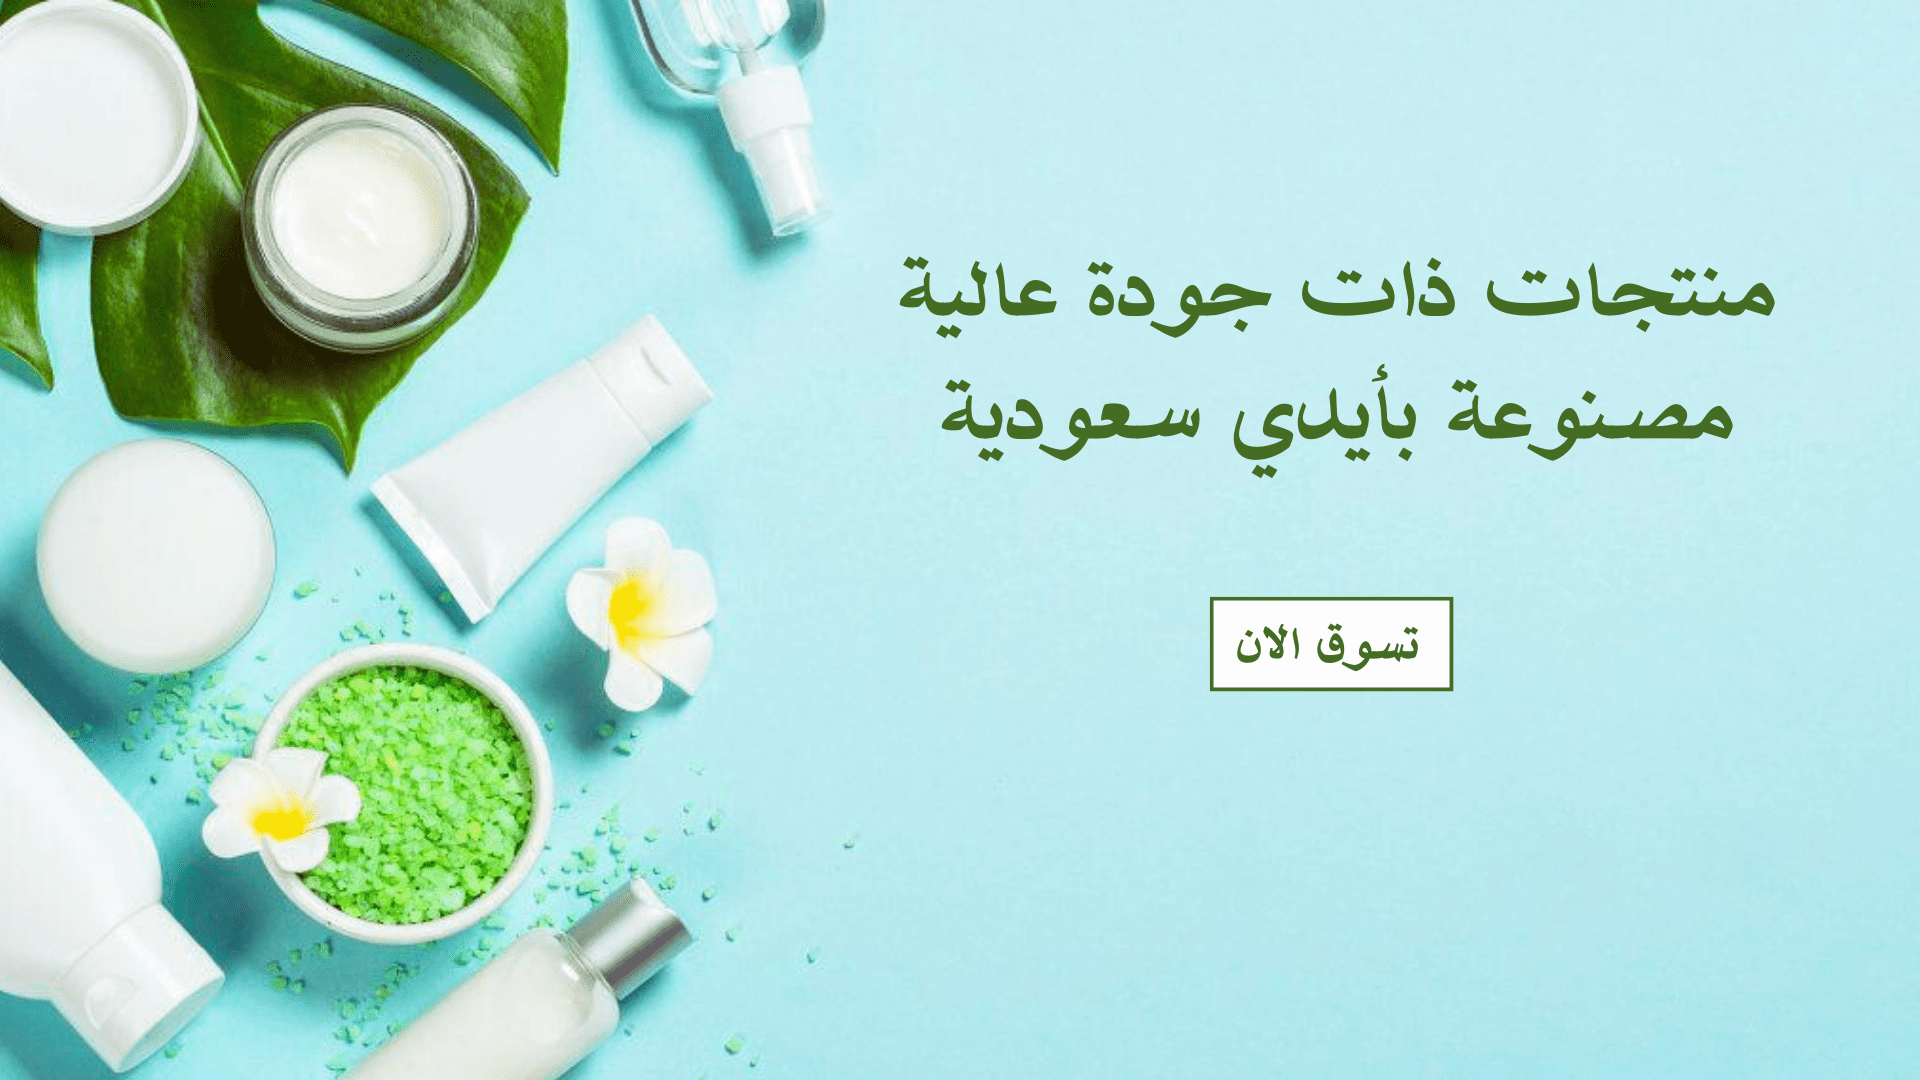
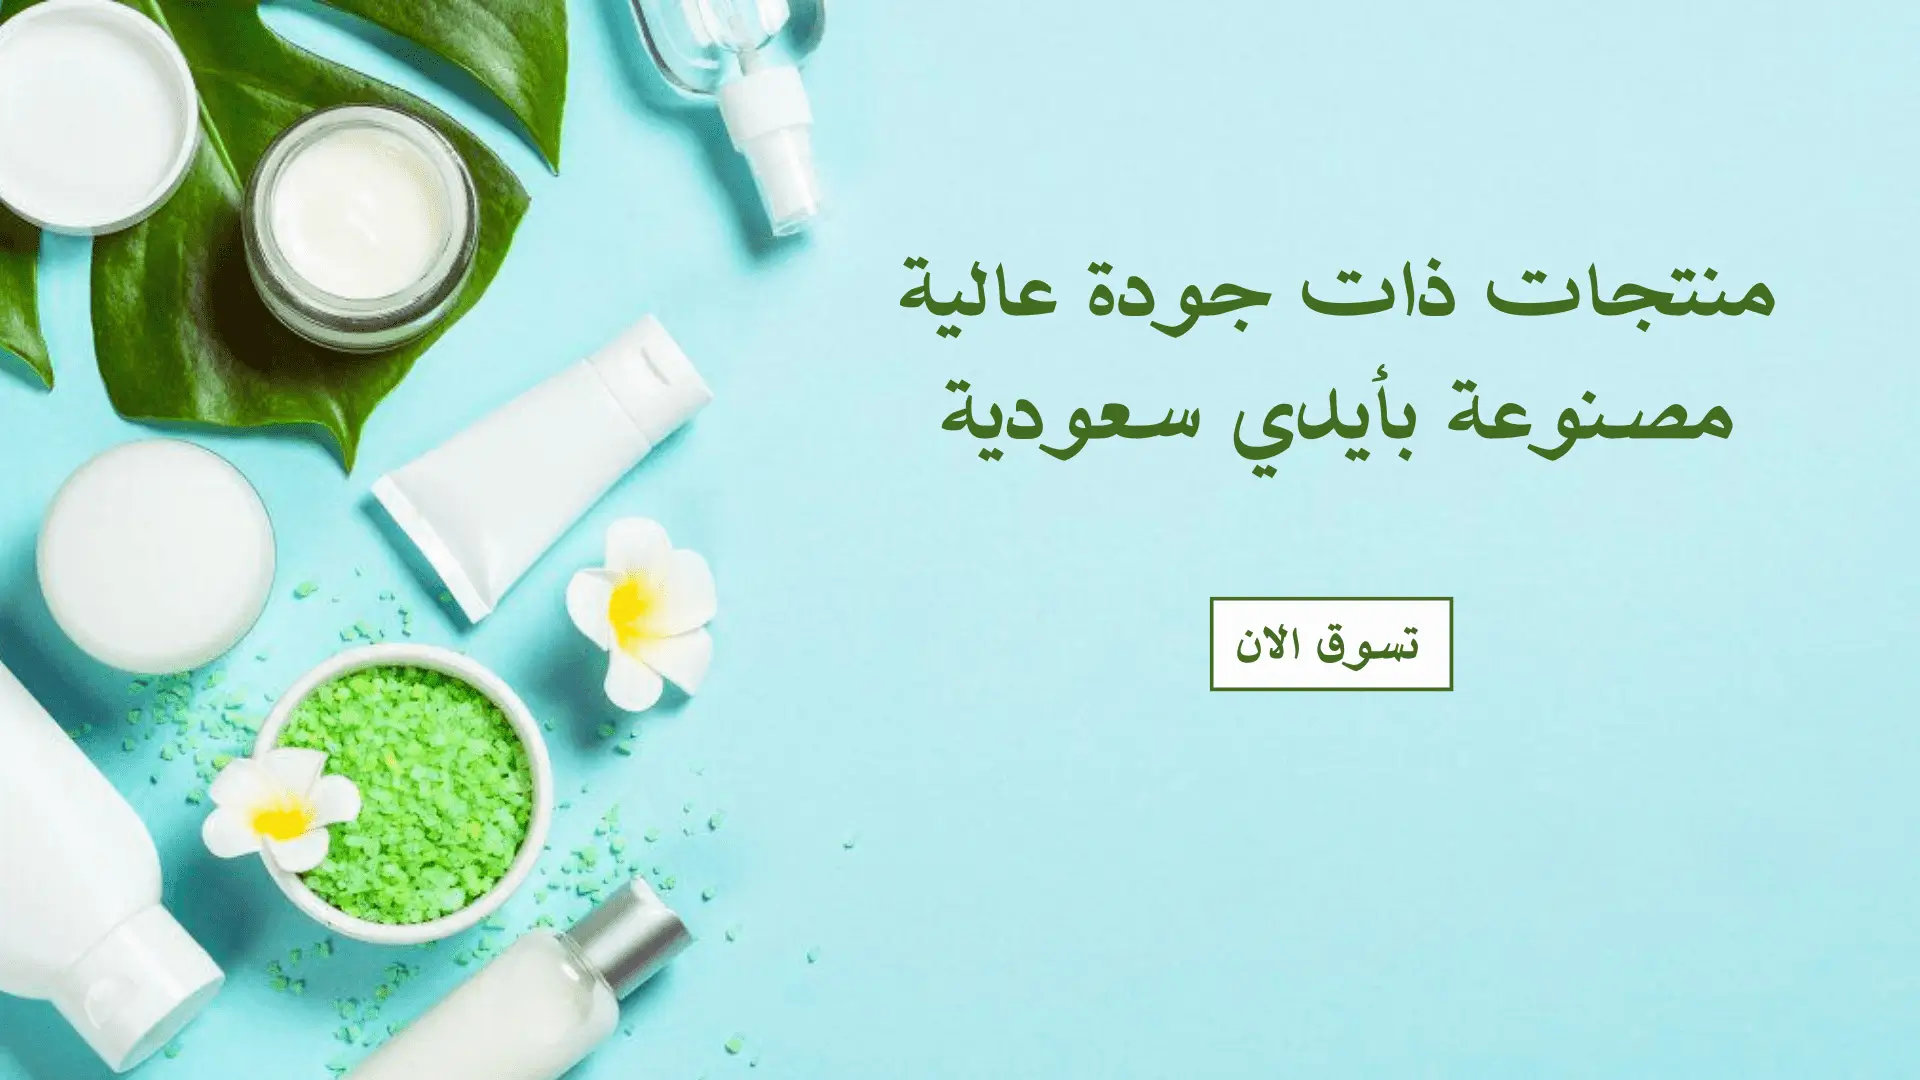
#44

Changed region(s): [[0.3125, 0.5194, 0.3438, 0.6111]]

diff --git a/assets/css/style.css b/assets/css/style.css
@@ -212,8 +212,34 @@ a {
 .content {
   width: 100%;
 }
+@media (min-width: 1320px) {
+  .content .hero-section {
+    max-width: 1200px;
+    margin: 32px auto;
+  }
+  .content .hero-section .swiper {
+    border-radius: 24px;
+  }
+  .content .hero-section .swiper .swiper-slide {
+    width: 100%;
+  }
+  .content .hero-section .swiper .swiper-slide img {
+    width: 100%;
+    height: 100%;
+    -o-object-fit: cover;
+       object-fit: cover;
+    -o-object-position: center;
+       object-position: center;
+  }
+}
 .content .hero-section .swiper {
+  height: 100%;
   display: flex;
+}
+@media (max-width: 1120px) {
+  .content .hero-section .swiper {
+    height: auto;
+  }
 }
 .content .hero-section .swiper .swiper-slide {
   width: 100%;

diff --git a/assets/css/style.scss b/assets/css/style.scss
@@ -219,8 +219,28 @@ a {
 .content {
   width: 100%;
   .hero-section {
+    @media (min-width: 1320px) {
+      max-width: 1200px;
+      margin: 32px auto;
+      .swiper{
+        border-radius:24px ;
+        .swiper-slide {
+          width: 100%;
+          img {
+            width: 100%;
+            height: 100%;
+            object-fit: cover;
+            object-position: center;
+          }
+        }
+      }
+    }
     .swiper {
+      height: 100%;
       display: flex;
+      @media (max-width: 1120px) {
+        height: auto;
+      }
       .swiper-slide {
         width: 100%;
         img {
